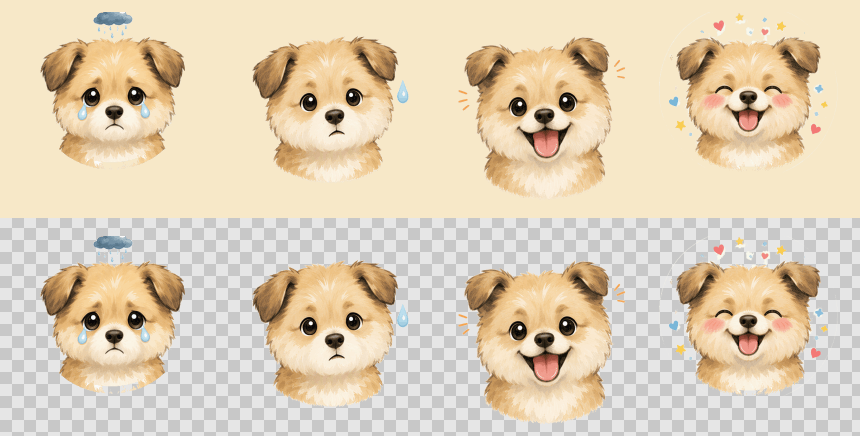
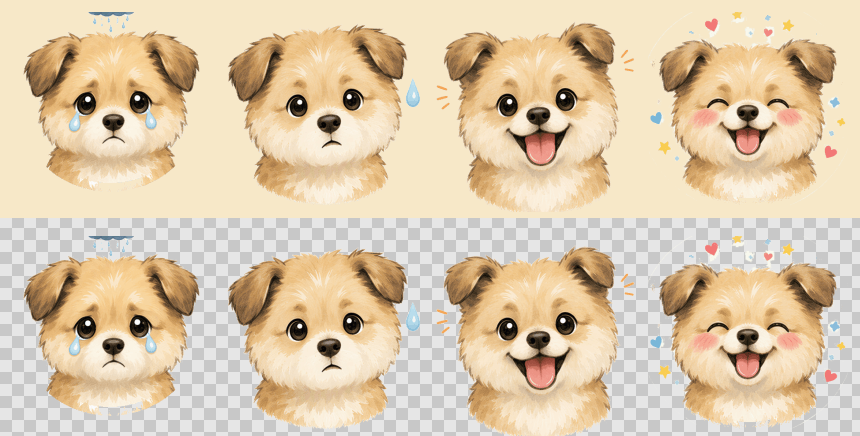
小程序: 四心情贴纸终版改眼心统一裁窗——源图同尺寸绘制实测眼距±3%，不缩放只对齐杜绝姿势带偏，升 v6

diff --git a/miniapp/src/features/main/miniappPresentation.test.ts b/miniapp/src/features/main/miniappPresentation.test.ts
@@ -242,10 +242,10 @@ describe('miniapp ui presentation rules', () => {
     const formStyles = fs.readFileSync(path.resolve(__dirname, 'JournalEditorForm.scss'), 'utf8')
     expect(form).toContain('replacePrimaryPhoto')
     expect(form).toContain('editor-yard.jpg')
-    expect(form).toContain('moods/mood-1-v5.png')
-    expect(form).toContain('moods/mood-2-v5.png')
-    expect(form).toContain('moods/mood-3-v5.png')
-    expect(form).toContain('moods/mood-4-v5.png')
+    expect(form).toContain('moods/mood-1-v6.png')
+    expect(form).toContain('moods/mood-2-v6.png')
+    expect(form).toContain('moods/mood-3-v6.png')
+    expect(form).toContain('moods/mood-4-v6.png')
     expect(form).toContain('journal-editor__moods')
     expect(form).toContain('chooseMood')
     expect(form).not.toContain('pickMood')
@@ -281,10 +281,10 @@ describe('miniapp ui presentation rules', () => {
     expect(manifest).toContain('journal/action-photo-v2.png')
     expect(manifest).toContain('journal/action-write-v2.png')
     expect(manifest).toContain('journal/editor-yard.jpg')
-    expect(manifest).toContain('moods/mood-1-v5.png')
-    expect(manifest).toContain('moods/mood-2-v5.png')
-    expect(manifest).toContain('moods/mood-3-v5.png')
-    expect(manifest).toContain('moods/mood-4-v5.png')
+    expect(manifest).toContain('moods/mood-1-v6.png')
+    expect(manifest).toContain('moods/mood-2-v6.png')
+    expect(manifest).toContain('moods/mood-3-v6.png')
+    expect(manifest).toContain('moods/mood-4-v6.png')
   })
 
   it('presents the message tab empty state with an invite illustration and share action', () => {

diff --git a/miniapp/src/features/main/JournalEditorForm.tsx b/miniapp/src/features/main/JournalEditorForm.tsx
@@ -17,10 +17,10 @@ const polaroidRun = require('../../assets/journal/polaroid-run-v2.png')
 const editorYard = require('../../assets/journal/editor-yard.jpg')
 
 const moodImages: Record<string, string> = {
-  happy: require('../../assets/moods/mood-3-v5.png'),
-  calm: require('../../assets/moods/mood-2-v5.png'),
-  sad: require('../../assets/moods/mood-1-v5.png'),
-  excited: require('../../assets/moods/mood-4-v5.png'),
+  happy: require('../../assets/moods/mood-3-v6.png'),
+  calm: require('../../assets/moods/mood-2-v6.png'),
+  sad: require('../../assets/moods/mood-1-v6.png'),
+  excited: require('../../assets/moods/mood-4-v6.png'),
 }
 
 const MAX_PHOTOS = 3

diff --git a/docs/features/miniapp.md b/docs/features/miniapp.md
@@ -47,7 +47,7 @@ flowchart LR
 - 小记、消息、我的三个 tab 的根节点（`.miniapp-journal` / `.miniapp-messages` / `.miniapp-me`）与游戏中心、锁定信件场景同模式，各自是 `position: fixed; inset: 0; z-index: 19; overflow-y: auto` 的固定全屏层：页面文档流高度归零，真机整页不可拖动，内容超一屏由层内滚动兜底（小记正常内容仍恰好一屏，padding 8px 28px 226px 复刻原几何）；消息/我的层底部净空统一为 238px（与小记 226px+12px 一致），不再紧贴底栏。层在底部导航（z 20）之下；loading 与解锁后的活跃态小窝仍走原文档流。
 - 「关于小多利」弹窗长按版本号进入隐藏 GM 工具：可为当前账号批量添加 1/3/5 个测试好友（服务端生成 `gm_friend_*` 假用户并直接建立已接受关系、房间和宠物），也可一键删除全部测试好友；删除只作用于 GM 生成的假用户及其关系（真实好友不受影响，服务端按外键级联清理对应房间与宠物数据）。添加或删除成功后立即刷新首页上下文（`MiniappMeView` 的 `onDataChanged`）。
 - 全小程序返回入口统一使用共享组件 `MiniappBackButton`（`miniapp/src/components/`）：无底色的深棕细左箭头（CSS 边框旋转绘制，4rpx 描边），仅保留 72rpx 透明命中区域与按压变淡反馈，`aria-label="返回"`。写日记顶栏、纪念日面板、今日运势页、游戏中心和五子棋页的返回都由它渲染，不再各自维护 `‹` 字符或文字样式。
-- 小记为单人日记：整页固定一屏不滚动（容器 `height: calc(100vh - 220px)`、`overflow: hidden`），今日运势条固定可见，「查看」展开的历史日记在今日块固定区域内超出裁剪；页面背景与其它主界面同为 `#fff8ee`；标题左对齐，下方简介「记录和小多利的每一天」（各 tab 页简介句尾均不带句号），「日记 / 纪念日」居中分页；周历放在白卡片里；进入小记时今日日记先显示三行微光骨架占位（`prefers-reduced-motion` 时静止），本周日记接口返回后才把骨架换成空态文案或已记录内容，不再先闪「还没有日记」默认文案再刷新；周日记走内存单槽缓存（`miniapp/src/features/main/journalWeekCache.ts`，只存最后一次请求窗口），请求成功写入缓存，再次切入小记 tab（组件重挂载）时直接渲染缓存数据、不重播骨架动画，改为后台静默刷新替换；已登录冷启动与微信登录成功后后台预取本周日记，首次进小记多数也能直接命中，登出时清缓存防串号；跨周翻页与缓存外的周仍按首次加载播骨架，请求失败时保留缓存/已有数据不闪空态；今日日记卡右侧有「查看」，未上传照片时默认拍立得用坐姿小狗并放大到 280×292（上传照片白框可见尺寸与邮票可见邮票面一致：233 内衬 + 8/8/20 边衬 ≈ 249×230，切换不跳变且不再大于默认邮票），正文在卡内 `ScrollView` 滚动查看（字号不变，`word-break: break-all` 保证无空格长串也换行），上传照片后用白框拍立得展示（264 内衬 + 8/8/20 边衬，倾角与坐姿邮票一致，约 -6°）；写日记/拍照记录插图较大；各区块使用统一 32rpx 间距；写日记/拍照记录按钮收矮且距卡片底边不变，今日日记上半拍立得区固定 292rpx，运势条紧跟其下、自带 24rpx 底部外边距整体上移，与底栏间距接近消息页。写日记和纪念日都在当前页全屏打开，不跳转；写日记覆盖层固定一屏不滚动，自带顶栏（统一返回按钮 / 写日记 / 保存）、白卡片占满剩余高度（卡片内除正文外全部定高不可压缩；庭院插画整体下移 85rpx 裁掉部分底部空草地，小狗落在卡片下方约 330rpx 露出带里）和心情选择行；正文 textarea 是卡片内唯一弹性区（内容多时在框内滚动，最低 60rpx），相册缩略图行和地点输入出现时压缩正文区而非撑高卡片；心情直接点选表情图（难过/平静/开心/兴奋，120rpx 大图，选中高亮；表情为 200×200 透明贴纸，由 `miniapp/tools/make-mood-slices.mjs` 从四心情源图出件：边界洪泛转真透明 + 圆盘灰环几何擦除 + 按主体腮宽归一化统一四张狗头的尺寸与高度（装饰不参与基准），文件名带版本号当前 -v5（画布为固定正方形，四张一次等比出件无逐张形变）），日期行不再重复显示心情文字；天气按钮动态显示当前天气图标；未放照片时拍立得放大为 300×326（奔跑邮票 `aspectFit` 居中，「点这里放今天的照片」提示收在框内下方，不遮挡工具栏），放照片后白框可见尺寸与奔跑邮票可见邮票面一致（264 内衬 + 14/14/20 边衬 ≈ 292×284，倾角与默认奔跑邮票一致约 +6°，两张默认邮票倾角实测方向相反），切换尺寸不跳变，默认插图为奔跑小狗；照片最多 3 张，点主图弹「查看大图/更换照片」，点主图下方缩略图直接预览大图，缩略图 × 移除不影响预览。不提供点赞和分享。
+- 小记为单人日记：整页固定一屏不滚动（容器 `height: calc(100vh - 220px)`、`overflow: hidden`），今日运势条固定可见，「查看」展开的历史日记在今日块固定区域内超出裁剪；页面背景与其它主界面同为 `#fff8ee`；标题左对齐，下方简介「记录和小多利的每一天」（各 tab 页简介句尾均不带句号），「日记 / 纪念日」居中分页；周历放在白卡片里；进入小记时今日日记先显示三行微光骨架占位（`prefers-reduced-motion` 时静止），本周日记接口返回后才把骨架换成空态文案或已记录内容，不再先闪「还没有日记」默认文案再刷新；周日记走内存单槽缓存（`miniapp/src/features/main/journalWeekCache.ts`，只存最后一次请求窗口），请求成功写入缓存，再次切入小记 tab（组件重挂载）时直接渲染缓存数据、不重播骨架动画，改为后台静默刷新替换；已登录冷启动与微信登录成功后后台预取本周日记，首次进小记多数也能直接命中，登出时清缓存防串号；跨周翻页与缓存外的周仍按首次加载播骨架，请求失败时保留缓存/已有数据不闪空态；今日日记卡右侧有「查看」，未上传照片时默认拍立得用坐姿小狗并放大到 280×292（上传照片白框可见尺寸与邮票可见邮票面一致：233 内衬 + 8/8/20 边衬 ≈ 249×230，切换不跳变且不再大于默认邮票），正文在卡内 `ScrollView` 滚动查看（字号不变，`word-break: break-all` 保证无空格长串也换行），上传照片后用白框拍立得展示（264 内衬 + 8/8/20 边衬，倾角与坐姿邮票一致，约 -6°）；写日记/拍照记录插图较大；各区块使用统一 32rpx 间距；写日记/拍照记录按钮收矮且距卡片底边不变，今日日记上半拍立得区固定 292rpx，运势条紧跟其下、自带 24rpx 底部外边距整体上移，与底栏间距接近消息页。写日记和纪念日都在当前页全屏打开，不跳转；写日记覆盖层固定一屏不滚动，自带顶栏（统一返回按钮 / 写日记 / 保存）、白卡片占满剩余高度（卡片内除正文外全部定高不可压缩；庭院插画整体下移 85rpx 裁掉部分底部空草地，小狗落在卡片下方约 330rpx 露出带里）和心情选择行；正文 textarea 是卡片内唯一弹性区（内容多时在框内滚动，最低 60rpx），相册缩略图行和地点输入出现时压缩正文区而非撑高卡片；心情直接点选表情图（难过/平静/开心/兴奋，120rpx 大图，选中高亮；表情为 200×200 透明贴纸，由 `miniapp/tools/make-mood-slices.mjs` 从四心情源图出件：边界洪泛转真透明 + 圆盘灰环几何擦除 + 按主体腮宽归一化统一四张狗头的尺寸与高度（装饰不参与基准），文件名带版本号当前 -v6（以眼心为公共锚点开统一裁窗，不缩放只对齐——源图四格同尺寸绘制，任何按轮廓宽度缩放的方案都会被姿势带偏）），日期行不再重复显示心情文字；天气按钮动态显示当前天气图标；未放照片时拍立得放大为 300×326（奔跑邮票 `aspectFit` 居中，「点这里放今天的照片」提示收在框内下方，不遮挡工具栏），放照片后白框可见尺寸与奔跑邮票可见邮票面一致（264 内衬 + 14/14/20 边衬 ≈ 292×284，倾角与默认奔跑邮票一致约 +6°，两张默认邮票倾角实测方向相反），切换尺寸不跳变，默认插图为奔跑小狗；照片最多 3 张，点主图弹「查看大图/更换照片」，点主图下方缩略图直接预览大图，缩略图 × 移除不影响预览。不提供点赞和分享。
 - 日记数据使用个人维度 `/api/diaries` 接口（创建、区间列表、更新、删除、切换喜欢），照片压缩后以 base64 存储，单张不超过 30 万字符、每篇最多 3 张。
 - 纪念日与日记编辑器仍保留独立页面路由作壳层（`pages/journal-anniversary`、`pages/journal-editor`），主路径在小记当前页全屏打开对应面板；纪念日沿用房间维度接口，无好友时回退个人 `pet_dm` 房间。纪念日面板顶部有暖色渐变过渡；面板覆盖层与写日记一致为定高 `overflow: hidden` 一屏层不可滑动（表单照片区 220rpx、间距收紧凑保证小屏一屏放下）；进入面板先显示两块微光骨架卡，接口返回后才渲染列表或空态，不再先闪默认空状态。纪念日列表卡片为「暖底圆角方形图标座 + 左侧信息 + 右侧倒计时聚焦块」，带顶部高光与多层投影（图标为 256×256 手绘贴纸风透明底 PNG，由 `miniapp/tools/make-anniversary-icons.mjs` 从 SVG 出件：深棕粗描边 + 奶白/柔粉填充 + 暖橙点缀与小星星装饰，与应用内心情/动作图标同语言，单张 4–8KB）：信息列依次为名称（卡片标题档）、日期行（`2024年8月28日 · 每年/单次`）、说明（单行省略）与「已走过 N 天」等辅句；右侧聚焦块展示大号倒计时数字加「天后/天前」单位（40rpx 档），点击卡片进入编辑；当天纪念日卡片换暖色渐变底，聚焦块显示「今天」，辅句显示「第 N 周年 🎉」（单次为「就是今天 🎉」）；未到首次日期的纪念日辅句显示「期待中 ✨」。列表按下次日期由近到远排序（过期单次垫底），底部为虚线描边卡片式「+ 添加纪念日」按钮；空状态为白卡居中气球插画加「还没有纪念日」与引导文案；列表卡片有轻量上浮入场动效并支持 `prefers-reduced-motion` 降级。可选上传一张照片作纪念日背景（表单照片区 300rpx 高，复用 `imageCompression` 统一压缩链路：quality 80、宽度档 [1080, 900, 720]、dataURL 上限 300_000 字符，服务端 `anniversaryPhotoSchema` 同步校验，`photo: null` 清除）；上传照片后列表改用 DaysMatter 式照片背景大卡（560rpx 高，照片 `aspectFill` 铺底 + 上下渐隐遮罩，居中展示「名称 · 还有/已经」引导句、132rpx 大号倒计时数字与「N年N月M日 星期X」日期行，白字带投影），无照片仍用图标座卡片。表单整体收进白卡：日期、名称、说明为暖底字段块，五个图标选项为等宽大图标格（84rpx 透明底贴纸直接点选，无边框不可滑动，选中仅换暖底加深色描边，与写日记心情选择同款交互），「每年重复/不重复」为分段控件（选中格白底浮起，原生按钮边框已重置），底部操作行为「取消 / 删除（编辑时） / 保存」，保存为暖色渐变胶囊按钮。
 - 我的页面支持 MBTI 选择并通过资料接口保存。
@@ -177,10 +177,10 @@ npm run build:weapp --prefix miniapp
 | `journal/action-write-v2.png` | 320×270 | 14 KB | 小记「写日记」按钮插画 |
 | `journal/action-photo-v2.png` | 359×219 | 22 KB | 小记「拍照记录」按钮插画 |
 | `journal/editor-yard.jpg` | 750×750 | 29 KB | 写日记页底部庭院背景 |
-| `moods/mood-1-v5.png` | 200×200 | 15 KB | 写日记心情选择：难过（乌云含泪，透明抠图） |
-| `moods/mood-2-v5.png` | 200×200 | 17 KB | 写日记心情选择：平静（侧边汗滴，透明抠图） |
-| `moods/mood-3-v5.png` | 200×200 | 19 KB | 写日记心情选择：开心（吐舌笑加短线，透明抠图） |
-| `moods/mood-4-v5.png` | 200×200 | 17 KB | 写日记心情选择：兴奋（眯眼腮红加爱心星星，透明抠图） |
+| `moods/mood-1-v6.png` | 200×200 | 15 KB | 写日记心情选择：难过（乌云含泪，透明抠图） |
+| `moods/mood-2-v6.png` | 200×200 | 17 KB | 写日记心情选择：平静（侧边汗滴，透明抠图） |
+| `moods/mood-3-v6.png` | 200×200 | 19 KB | 写日记心情选择：开心（吐舌笑加短线，透明抠图） |
+| `moods/mood-4-v6.png` | 200×200 | 17 KB | 写日记心情选择：兴奋（眯眼腮红加爱心星星，透明抠图） |
 
 本地包内资源禁止使用 WebP（微信 image 组件不解析本地 WebP，iOS 真机会整块不显示；WebP 仅用于塔罗 COS 网络资源并配合 `webp` 属性）。入库前用 `scripts/optimize-miniapp-assets.mjs` 统一压缩：带透明通道的图片转 256 色全色板 + 误差扩散抖动 PNG（禁止再压 64/128 小色板，2026-08 验收发现小色板把整体压灰；全量真彩 PNG 约 5.4MB 超包，256 全色板是包体约束下最接近原图色彩的方案），不透明背景转 JPEG（mozjpeg，4:4:4 色度保留），两张大背景按显示密度降采样（street 840px、room 1152px）。可选 TinyPNG 追加压缩：设置 `TINIFY_API_KEY` 环境变量后执行 `node scripts/optimize-miniapp-assets.mjs --write`，脚本在本地优化产物上再过一遍 TinyPNG，只覆盖收益 ≥2% 的文件，输出保持 PNG/JPEG（key 存环境变量，禁止进仓库）。运行时用户照片压缩走 `miniapp/src/services/imageCompression.ts`：单次压缩、quality 80、按宽度档位 `[1080, 900, 720]`（头像 `[640, 480, 360]`）降分辨率重试，禁止降质量和重复压缩（详见 `.agents/rules/miniapp-image.md`）。运行时使用固定容器尺寸和 `aspectFit` 或 `aspectFill`，避免布局跳动。每张小程序图片控制在 180 KB 安全线内；主包构建产物必须低于微信 2MB 上限（当前约 1.9MB，若继续膨胀需考虑非 tab 页分包或大图迁 COS）。小程序副本随 `miniapp` 构建产物分发；塔罗资源不打包，从 COS 版本目录下载。
 
